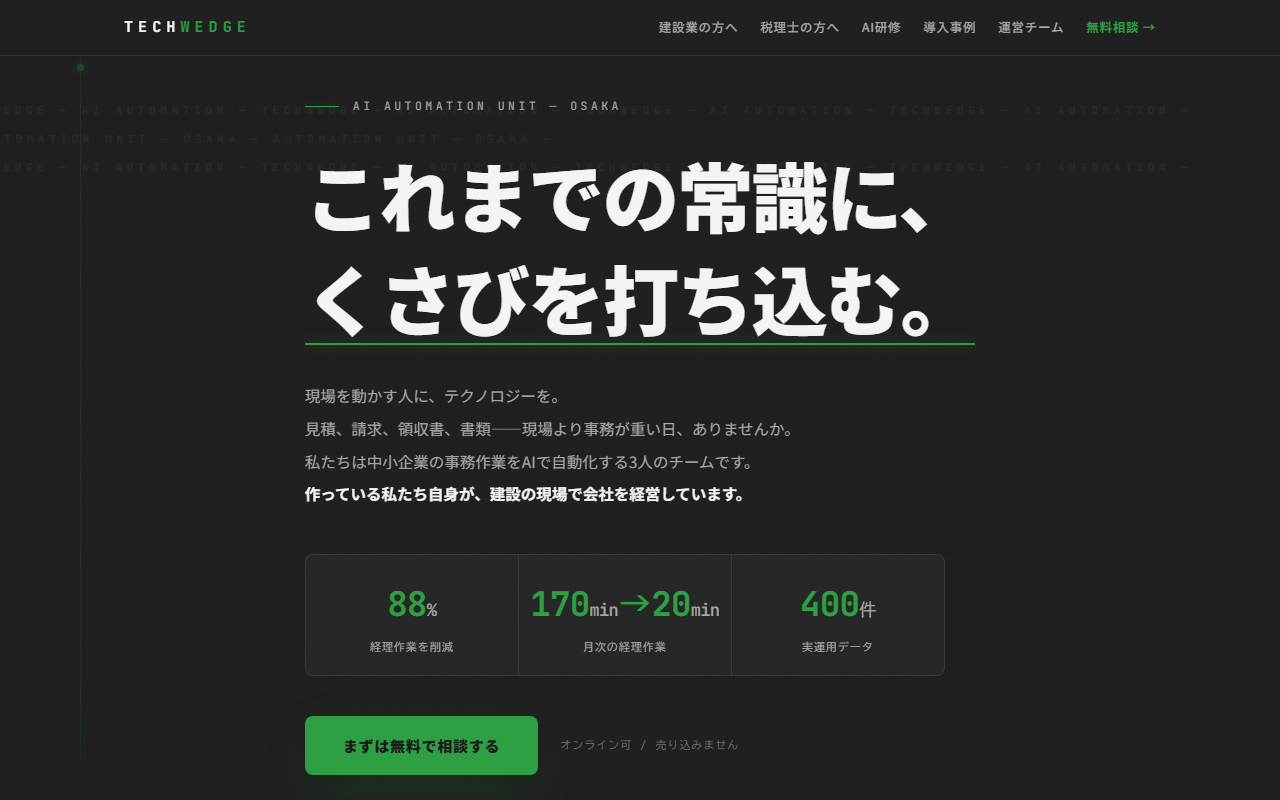
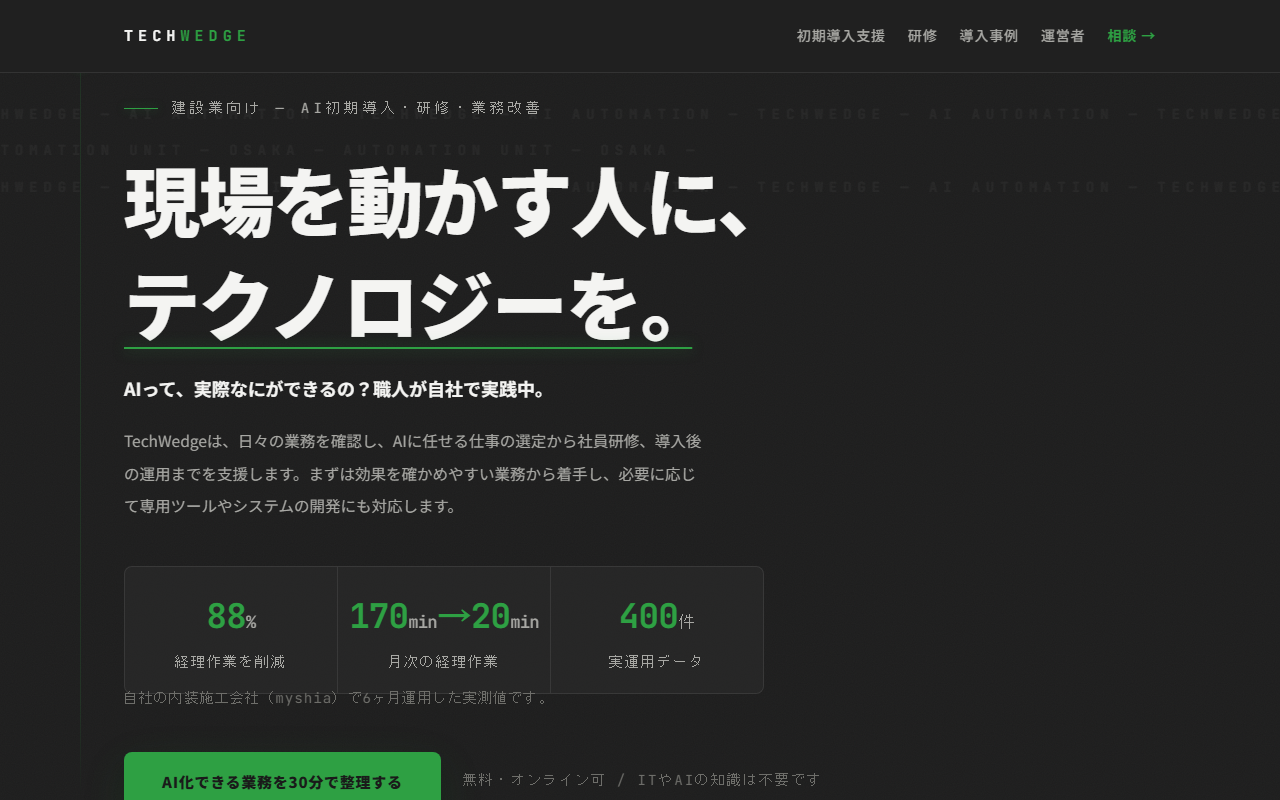
fix(techwedge): チラシ裏面 是正完了（郵送DM発送タスク表B-4）
- 事務単体3件→事務作業に統一
- h1フック文言を今日確定の『職人が自社で実践中。』へ更新
- タグライン追加は社長裁定でcase B（現構成維持・フック単独最大）に確定
  （両面の一貫性=オモテが宣言型のため裏も同種の強さで揃える・代行の検分が決め手）
- 実績スクショ(TechWedge本体サイト)を新FV反映後の本番ページで再撮影・差し替え

diff --git a/assets/flyer_all_v2.html b/assets/flyer_all_v2.html
@@ -1,0 +1,256 @@
+<!DOCTYPE html>
+<html lang="ja">
+<head>
+<meta charset="UTF-8">
+<title>TechWedge 全サービス紹介チラシ v2</title>
+<link rel="preconnect" href="https://fonts.googleapis.com">
+<link rel="preconnect" href="https://fonts.gstatic.com" crossorigin>
+<link href="https://fonts.googleapis.com/css2?family=Noto+Sans+JP:wght@400;500;700;900&family=JetBrains+Mono:wght@400;700&display=swap" rel="stylesheet">
+<style>
+  :root{
+    --ink:#2E2E2E; --sub:#5A5A5A; --laser:#2EA043; --neutral:#F4F4F2; --surface:#FFFFFF;
+    --sans:'Noto Sans JP',sans-serif; --mono:'JetBrains Mono',monospace;
+  }
+  *{margin:0;padding:0;box-sizing:border-box}
+  @page{size:A4;margin:0}
+  html,body{width:210mm;height:297mm}
+  html.bw body{filter:grayscale(100%)}
+  body{font-family:var(--sans); color:var(--ink); background:var(--surface); position:relative; overflow:hidden}
+  .page{width:210mm;height:297mm;padding:9mm 15mm;position:relative;display:flex;flex-direction:column}
+  .datum-bar{position:absolute;left:7mm;top:0;bottom:0;width:1px;background:linear-gradient(180deg,transparent,rgba(46,160,67,.3) 8%,rgba(46,160,67,.3) 92%,transparent)}
+
+  /* ══ 上段: キャッチ+ビジュアル (約35%) ══ */
+  .tier-top{flex:0 0 auto}
+  .brandrow{display:flex;justify-content:space-between;align-items:baseline;margin-bottom:4mm}
+  .brand{font-family:var(--mono);font-weight:700;font-size:12px;letter-spacing:.28em;color:var(--ink)}
+  .brand i{font-style:normal;color:var(--laser)}
+  .greeting{font-size:11px;color:var(--ink);font-weight:700}
+  .bridge{font-size:9.5px;color:var(--sub);line-height:1.7;margin-top:2mm;max-width:175mm}
+  .bridge b{color:var(--ink);font-weight:700}
+
+  h1{font-size:25px;font-weight:900;line-height:1.32;letter-spacing:-.01em;margin-top:5.5mm}
+  h1 .u{border-bottom:2px solid var(--laser);padding-bottom:1px}
+  .subcatch{margin-top:3mm;font-size:12px;font-weight:700;color:var(--ink);line-height:1.6}
+
+  /* ══ FV: 自社実績バッジ(視覚要素) ══ */
+  .fv-proof{display:flex;align-items:center;gap:3mm;margin-top:4mm;padding:2.8mm 5mm;background:var(--neutral);border:1.5px solid var(--laser);border-radius:6px;width:fit-content}
+  .fv-proof .fp-label{font-family:var(--mono);font-size:7px;color:var(--sub);letter-spacing:.03em}
+  .fv-proof .fp-before{font-size:13px;font-weight:700;color:var(--ink)}
+  .fv-proof .fp-arrow{font-size:14px;color:var(--ink);font-weight:900}
+  .fv-proof .fp-after{font-size:19px;font-weight:900;color:#fff;background:var(--laser);padding:0.6mm 3mm;border-radius:3px}
+  html.bw .fv-proof .fp-after{background:#2E2E2E}
+  .fv-proof .fp-note{font-family:var(--mono);font-size:6.5px;color:var(--sub)}
+
+  .hero-ba{
+    margin-top:0;border:2px solid var(--laser);border-radius:7px;background:var(--neutral);
+    padding:6mm 8mm;display:flex;flex-direction:column;
+  }
+  .hero-ba .top-row{display:flex;align-items:center;gap:7mm}
+  .hero-ba .lbl{font-family:var(--mono);font-size:10px;color:var(--sub);letter-spacing:.1em;flex-shrink:0;width:26mm;line-height:1.7}
+  .hero-ba .nums{display:flex;align-items:center;gap:7mm;flex:1}
+  .hero-ba .num-block{text-align:center}
+  .hero-ba .num-block .k{font-family:var(--mono);font-size:9px;color:var(--sub);letter-spacing:.08em}
+  .hero-ba .num-block .v{font-size:20px;font-weight:700;margin-top:1mm;color:var(--ink)}
+  .hero-ba .num-block.after .v{
+    color:var(--ink);font-size:34px;font-weight:900;
+    background:var(--laser);display:inline-block;padding:1mm 4mm;border-radius:4px;margin-top:1.5mm;
+  }
+  html.bw .hero-ba .num-block.after .v{background:#2E2E2E;color:#fff}
+  .hero-ba .arrow{font-size:22px;color:var(--ink);font-weight:900}
+  .hero-ba .src{margin-left:auto;font-family:var(--mono);font-size:7px;color:var(--sub);text-align:right;line-height:1.7;max-width:46mm}
+
+  /* ══ Before/After 工程フロー(視覚的証拠) ══ */
+  .flow-rows{margin-top:3mm;padding-top:2.5mm;border-top:1px dashed #C9C9C4}
+  .flow-row{display:flex;align-items:center;gap:1mm;margin-bottom:1.6mm}
+  .flow-row:last-child{margin-bottom:0}
+  .flow-row .flabel{font-family:var(--mono);font-size:7.5px;color:var(--sub);width:14mm;flex-shrink:0;font-weight:700}
+  .flow-row .fsteps{display:flex;align-items:center;gap:0.8mm;flex:1}
+  .flow-step{background:#fff;border:1px solid #D8D8D4;border-radius:3px;padding:0.8mm 0;text-align:center;flex:1;min-width:0}
+  .flow-step .fn{font-weight:700;font-size:7px;color:var(--ink)}
+  .flow-step .fm{font-family:var(--mono);font-size:6px;color:var(--sub);margin-top:0.3mm}
+  .flow-arrow-sm{color:#C4C4BF;font-size:8px;flex-shrink:0}
+  .flow-row .ftotal{font-family:var(--mono);font-weight:900;font-size:11px;flex-shrink:0;text-align:right;width:15mm;color:var(--ink)}
+  .flow-row.after .flow-step{background:var(--laser);border-color:var(--laser)}
+  .flow-row.after .flow-step .fn,.flow-row.after .flow-step .fm{color:#fff}
+  html.bw .flow-row.after .flow-step{background:#2E2E2E;border-color:#2E2E2E}
+  .flow-row.after .ftotal{color:var(--laser)}
+  html.bw .flow-row.after .ftotal{color:#2E2E2E}
+  .flow-legend{font-size:6.3px;color:var(--sub);margin-top:1.5mm;line-height:1.5}
+
+  /* ══ 02 制作実績(縮小版) ══ */
+  .shot-row.compact{gap:3.5mm}
+  .shot-row.compact .shot-frame{height:20mm}
+  .shot-row.compact .shot-cap{font-size:8px;padding:1.4mm 2mm}
+  .shot-row.compact .shot-browser{padding:1mm 2mm}
+  .shot-row.compact .bubble{font-size:6px;padding:1.2mm 1.6mm;max-width:26mm}
+
+  /* ══ 見出し共通 ══ */
+  .sec-head{display:flex;align-items:baseline;gap:7px;margin-top:4.5mm;margin-bottom:2mm}
+  .sec-num{font-family:var(--mono);font-size:9px;color:var(--laser);letter-spacing:.08em}
+  .sec-head h2{font-size:13px;font-weight:900}
+
+  /* ══ 中段: 実績スクショ ══ */
+  .shot-row{display:flex;gap:4.5mm}
+  .shot-card{flex:1;border:1px solid #D8D8D4;border-radius:5px;overflow:hidden;background:var(--surface);position:relative}
+  .shot-browser{background:#E7E7E4;padding:2mm 3mm;display:flex;gap:1.2mm;align-items:center}
+  .shot-browser .dot{width:2mm;height:2mm;border-radius:50%;background:#C4C4BF}
+  .shot-frame{height:52mm;overflow:hidden;position:relative}
+  .shot-frame img{width:100%;display:block}
+  .shot-cap{padding:2.4mm 2.5mm;font-size:9.5px;font-weight:700;text-align:center}
+  .bubble{
+    position:absolute;bottom:2mm;right:2mm;max-width:34mm;background:var(--ink);color:#F4F4F2;
+    font-size:7.2px;line-height:1.5;padding:2.2mm 2.8mm;border-radius:4px;font-weight:700;z-index:2;
+    box-shadow:0 2px 6px rgba(0,0,0,.25);
+  }
+
+  /* ══ 中段: 困りごと(圧縮1行) ══ */
+  .pain-compact{display:flex;flex-direction:column;gap:1.5mm}
+  .pain-compact div{font-size:10.5px;color:var(--ink);line-height:1.5;padding-left:5mm;position:relative}
+  .pain-compact div::before{content:"—";position:absolute;left:0;color:var(--laser);font-family:var(--mono)}
+
+  /* ══ 中段: サービス4本柱(圧縮1行) ══ */
+  .svc-compact{display:flex;flex-direction:column}
+  .svc-line{display:flex;align-items:baseline;gap:3.5mm;padding:1.8mm 0;border-bottom:1px dashed #E3E3E0;font-size:10.5px}
+  .svc-line:last-child{border-bottom:none}
+  .svc-line .no{font-family:var(--mono);font-weight:700;color:var(--laser);width:7mm;flex-shrink:0;font-size:9.5px}
+  .svc-line .name{font-weight:700;width:38mm;flex-shrink:0}
+  .svc-line .d{color:var(--sub);flex:1}
+  .svc-line .tag{font-family:var(--mono);font-size:7px;color:var(--sub);border:1px solid #C9C9C4;border-radius:3px;padding:1px 5px;flex-shrink:0}
+
+  /* ══ 下段: CTA集約 ══ */
+  .tier-bottom{margin-top:5mm;display:flex;gap:5mm;align-items:stretch}
+  .cta-main{
+    flex:2.2;border:2px solid var(--laser);border-radius:7px;padding:6mm 7mm;background:var(--neutral);
+    display:flex;align-items:center;gap:7mm;
+  }
+  .cta-main img{width:30mm;height:30mm;border-radius:3px;flex-shrink:0;background:#fff;padding:1.5mm;border:1px solid #ddd}
+  .cta-main .txt .h{font-size:15px;font-weight:900;color:var(--ink)}
+  .cta-main .txt .d{font-size:10px;color:var(--sub);margin-top:2mm;line-height:1.7}
+  .cta-main .txt .tel{margin-top:2.5mm;font-family:var(--mono);font-size:13px;color:var(--ink);font-weight:700}
+  .cta-main .txt .tel b{color:var(--laser);font-size:15px}
+  .cta-side{flex:.85;padding:2mm 3mm 2mm 5mm;border-left:1px dashed #D8D8D4;display:flex;flex-direction:column;justify-content:center}
+  .cta-side .t{font-family:var(--mono);font-size:6.5px;letter-spacing:.1em;color:var(--sub)}
+  .cta-side .v{font-size:9px;font-weight:700;margin-top:1.8mm;line-height:1.6;color:var(--sub)}
+  .cta-side .s{font-size:6.5px;color:var(--sub);margin-top:1.8mm;line-height:1.5}
+</style>
+</head>
+<body>
+<div class="page">
+  <div class="datum-bar"></div>
+
+  <div class="tier-top">
+    <div class="brandrow">
+      <span class="brand">TECHWEDGE<i>.</i></span>
+      <span class="greeting">AI AUTOMATION UNIT — OSAKA</span>
+    </div>
+
+    <p class="bridge">表面の<b>myshia</b>を運営する中芝が、建設会社向けのAI導入・研修・事務作業自動化を支援しています。</p>
+
+    <h1>「AIって、実際なにができるの？」<br><span class="u">職人が自社で実践中。</span></h1>
+    <p class="subcatch">AIを使う業務の選定から、社内で継続運用できる状態まで支援します。</p>
+
+    <div class="fv-proof">
+      <span class="fp-label">自社実績（領収書仕分け）</span>
+      <span class="fp-before">月約3時間</span>
+      <span class="fp-arrow">→</span>
+      <span class="fp-after">月20分</span>
+      <span class="fp-note">約88%削減・myshia実運用400件</span>
+    </div>
+  </div>
+
+  <div class="sec-head"><span class="sec-num">01</span><h2>こんな困りごとありませんか</h2></div>
+  <div class="pain-compact">
+    <div>見積書・請求書づくりが、気づけば夜の仕事になっている</div>
+    <div>「AIって聞くけど、うちの現場に使えるのか分からない」</div>
+    <div>事務作業を任せられる人がおらず、社長や奥さんが抱えている</div>
+  </div>
+
+  <div class="sec-head"><span class="sec-num">02</span><h2>できること</h2></div>
+  <div class="svc-compact">
+    <div class="svc-line"><span class="no">01</span><span class="name">AI初期導入支援</span><span class="d">事務作業を一緒に棚卸し→研修→最初の1業務の導入・定着まで伴走</span><span class="tag" style="background:var(--laser);color:#fff;border-color:var(--laser);font-weight:700">主力</span></div>
+    <div class="svc-line"><span class="no">02</span><span class="name">年間AI研修プログラム</span><span class="d">全6回・専門用語なし。社員が自社業務でAIを使える状態を目指します。人材開発支援助成金の対象となる場合があります</span><span class="tag">提供中</span></div>
+    <div class="svc-line"><span class="no">03</span><span class="name">建設業の事務作業自動化</span><span class="d">見積・請求・領収書等、効くところから自動化</span><span class="tag">提供中</span></div>
+  </div>
+
+  <div class="sec-head"><span class="sec-num">03</span><h2>AI初期導入支援の一例 — 領収書仕分けを自社で実践</h2></div>
+  <div class="hero-ba">
+    <div class="flow-rows" style="margin-top:0;padding-top:0;border-top:none">
+      <div class="flow-row">
+        <div class="flabel">BEFORE</div>
+        <div class="fsteps">
+          <div class="flow-step"><div class="fn">①</div><div class="fm">30分</div></div>
+          <div class="flow-arrow-sm">→</div>
+          <div class="flow-step"><div class="fn">②</div><div class="fm">40分</div></div>
+          <div class="flow-arrow-sm">→</div>
+          <div class="flow-step"><div class="fn">③</div><div class="fm">30分</div></div>
+          <div class="flow-arrow-sm">→</div>
+          <div class="flow-step"><div class="fn">④</div><div class="fm">20分</div></div>
+          <div class="flow-arrow-sm">→</div>
+          <div class="flow-step"><div class="fn">⑤</div><div class="fm">20分</div></div>
+          <div class="flow-arrow-sm">→</div>
+          <div class="flow-step"><div class="fn">⑥</div><div class="fm">15分</div></div>
+          <div class="flow-arrow-sm">→</div>
+          <div class="flow-step"><div class="fn">⑦</div><div class="fm">15分</div></div>
+        </div>
+        <div class="ftotal">170分</div>
+      </div>
+      <div class="flow-row after">
+        <div class="flabel">AFTER</div>
+        <div class="fsteps">
+          <div class="flow-step"><div class="fn">①</div><div class="fm">7分</div></div>
+          <div class="flow-arrow-sm">→</div>
+          <div class="flow-step"><div class="fn">②</div><div class="fm">0分</div></div>
+          <div class="flow-arrow-sm">→</div>
+          <div class="flow-step"><div class="fn">③</div><div class="fm">10分</div></div>
+          <div class="flow-arrow-sm">→</div>
+          <div class="flow-step"><div class="fn">④</div><div class="fm">0分</div></div>
+          <div class="flow-arrow-sm">→</div>
+          <div class="flow-step"><div class="fn">⑤</div><div class="fm">3分</div></div>
+        </div>
+        <div class="ftotal">20分</div>
+      </div>
+      <div class="flow-legend">BEFORE：①紙の整理②読み取り③科目判断④事業者切り分け⑤格納⑥受け渡し準備⑦差し戻し対応　／　AFTER：①スキャン②AI処理③確認・承認④受け渡し⑤差し戻し対応</div>
+      <div class="flow-legend" style="margin-top:1mm">出典: 2026年1〜6月・myshia実運用400件（170分≒約3時間→20分・約88%削減）</div>
+    </div>
+  </div>
+
+  <div class="sec-head"><span class="sec-num">04</span><h2>AI・DX支援の実績</h2></div>
+  <p style="font-size:9.5px;color:var(--sub);margin:-1mm 0 2.5mm">事業の土台（HP・業務システム）から、日々のAI活用まで。まとめて整備できます。</p>
+  <div class="shot-row compact">
+    <div class="shot-card">
+      <div class="shot-browser"><span class="dot"></span><span class="dot"></span><span class="dot"></span></div>
+      <div class="shot-frame"><img src="results/result_techwedge.png" alt="TechWedge本体サイトのスクリーンショット"></div>
+      <div class="shot-cap">TechWedge 本体サイト</div>
+    </div>
+    <div class="shot-card">
+      <div class="shot-browser"><span class="dot"></span><span class="dot"></span><span class="dot"></span></div>
+      <div class="shot-frame"><img src="results/result_akiyamusubu.png" alt="アキヤムスブのスクリーンショット"></div>
+      <div class="shot-cap">アキヤムスブ</div>
+    </div>
+    <div class="shot-card">
+      <div class="shot-browser"><span class="dot"></span><span class="dot"></span><span class="dot"></span></div>
+      <div class="shot-frame"><img src="results/result_myshia.png" alt="myshia HPのスクリーンショット"><div class="bubble">表面のmyshiaのHPも、<br>うちの制作です</div></div>
+      <div class="shot-cap">myshia HP</div>
+    </div>
+  </div>
+
+  <div class="tier-bottom">
+    <div class="cta-main">
+      <img src="line-qr.jpg" alt="LINE友だち追加QRコード">
+      <div class="txt">
+        <div class="h">まずは対象業務と料金をLINEで相談</div>
+        <div class="d">スキャンするとLINEの友だち追加が開きます。<br>お名前と「チラシ見た」だけでOKです。</div>
+        <div class="tel">TEL：<b>090-6908-0713</b>（担当：中芝）</div>
+      </div>
+    </div>
+    <div class="cta-side">
+      <div class="t">MORE / 料金</div>
+      <div class="v">tech-wedge.com<br>AI活用の入口は月額制で小さく始められます。<br>年間研修は、要件を満たす中小企業では最大75%の助成対象となる場合があります（要件・審査あり）。</div>
+      <div class="s">支給を保証するものではありません。料金はお問い合わせください。</div>
+      <div class="s" style="margin-top:3mm">TechWedge（運営：中芝悠太）<br>大阪府大東市南楠の里町3-33</div>
+    </div>
+  </div>
+</div>
+<script>if (location.search.includes('bw=1')) document.documentElement.classList.add('bw');</script>
+</body>
+</html>
